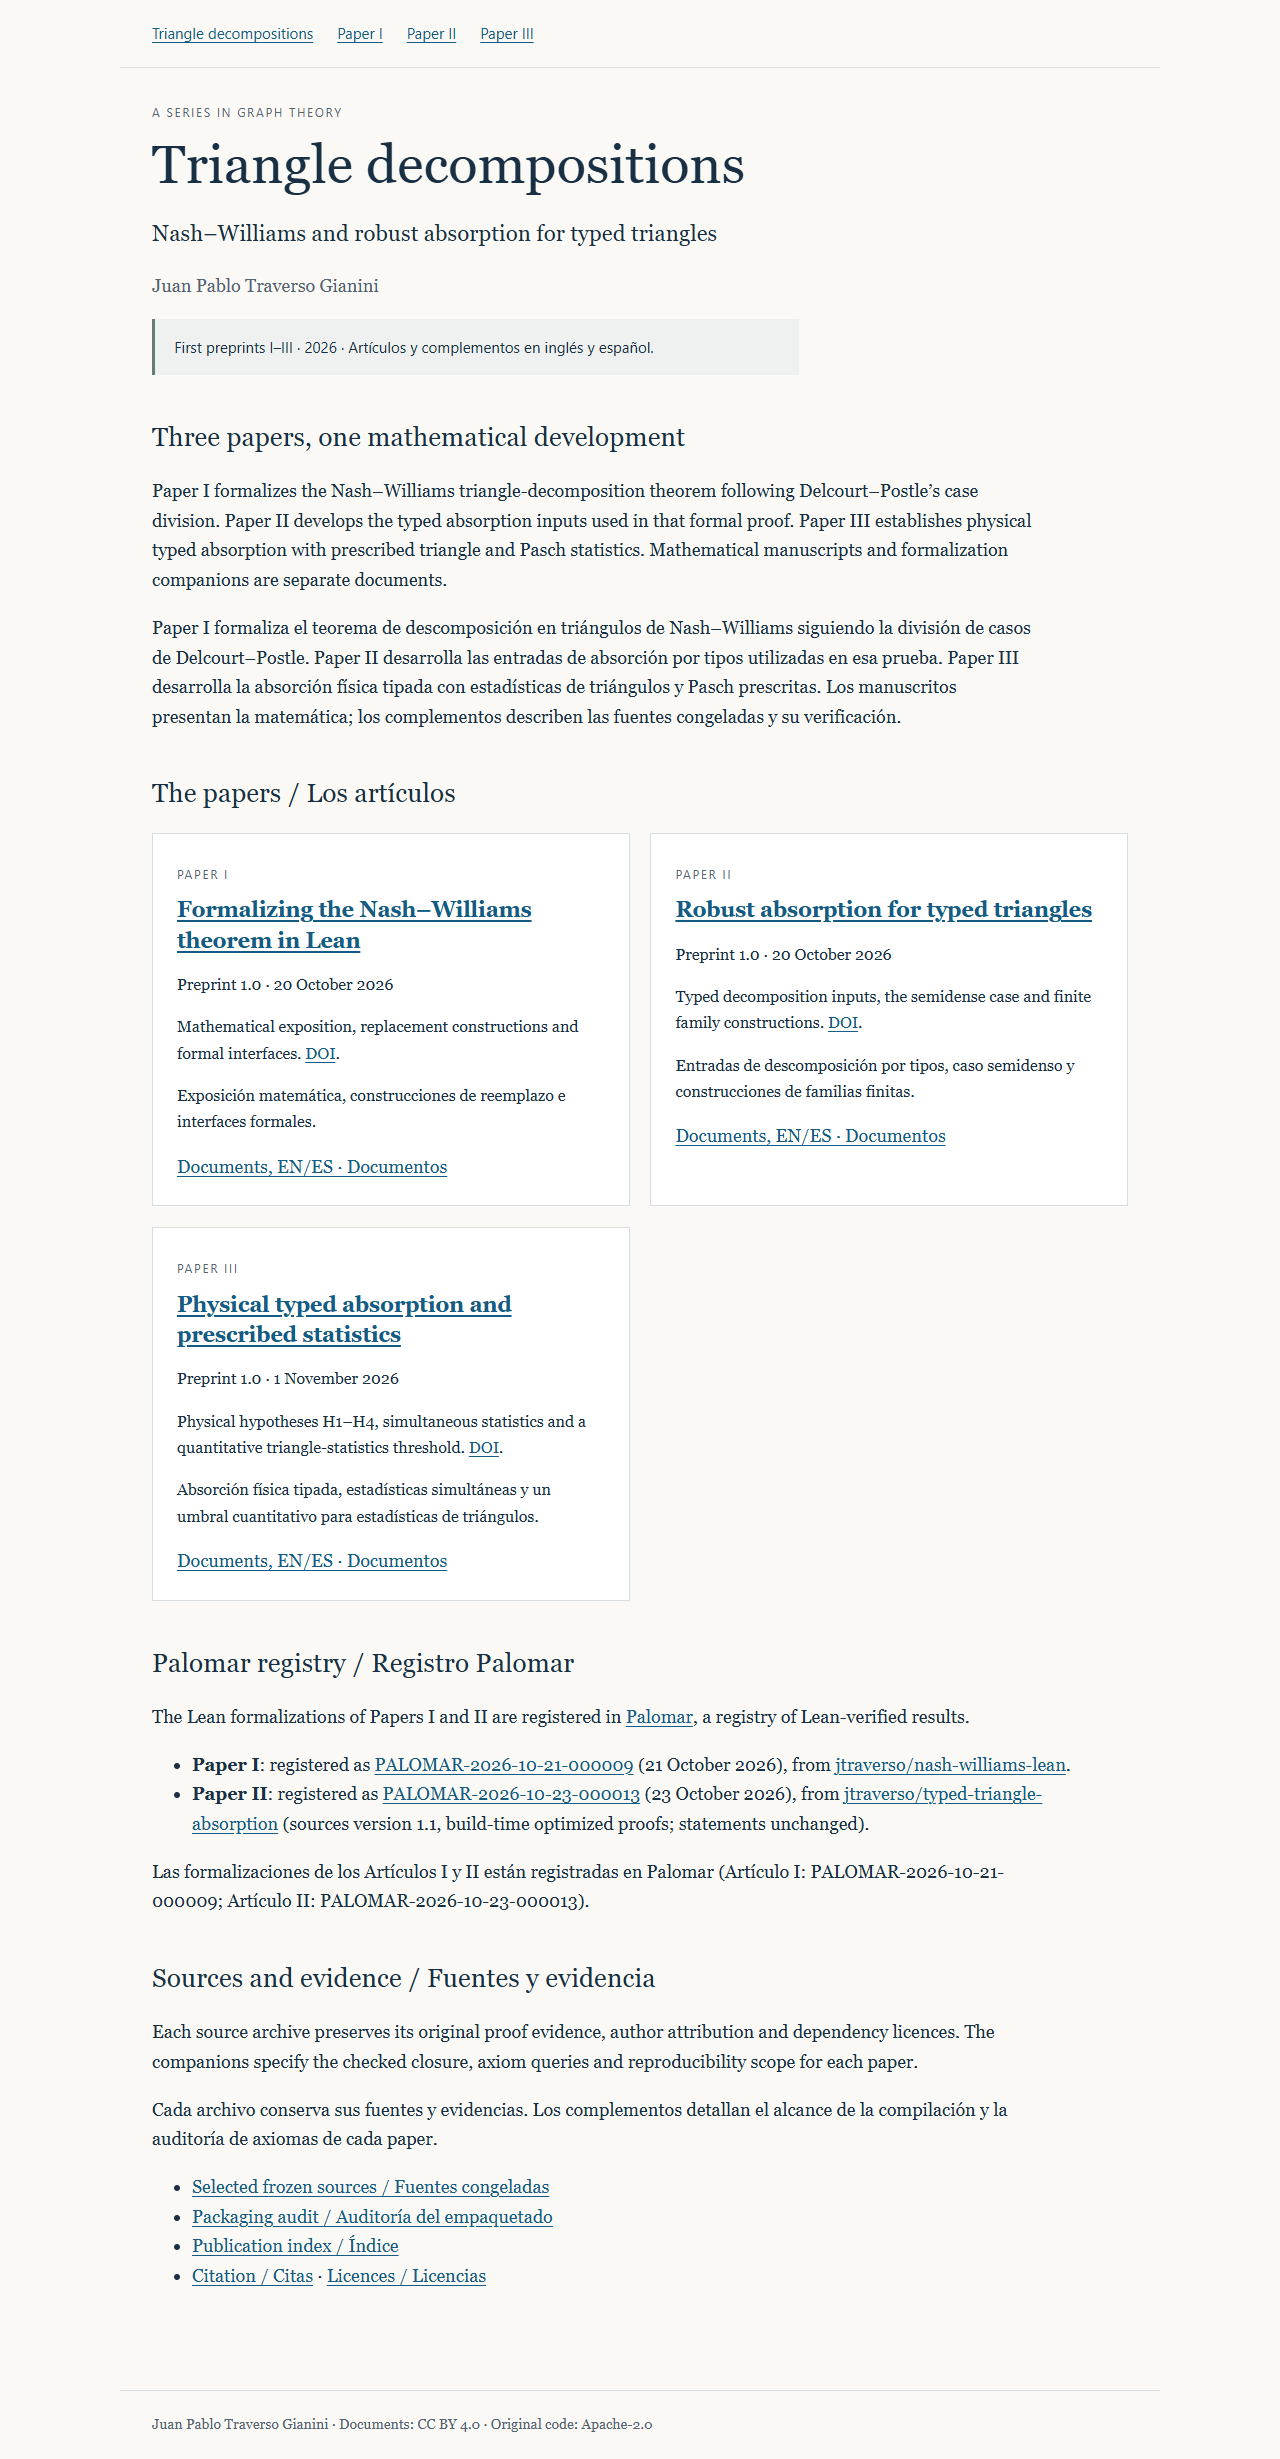
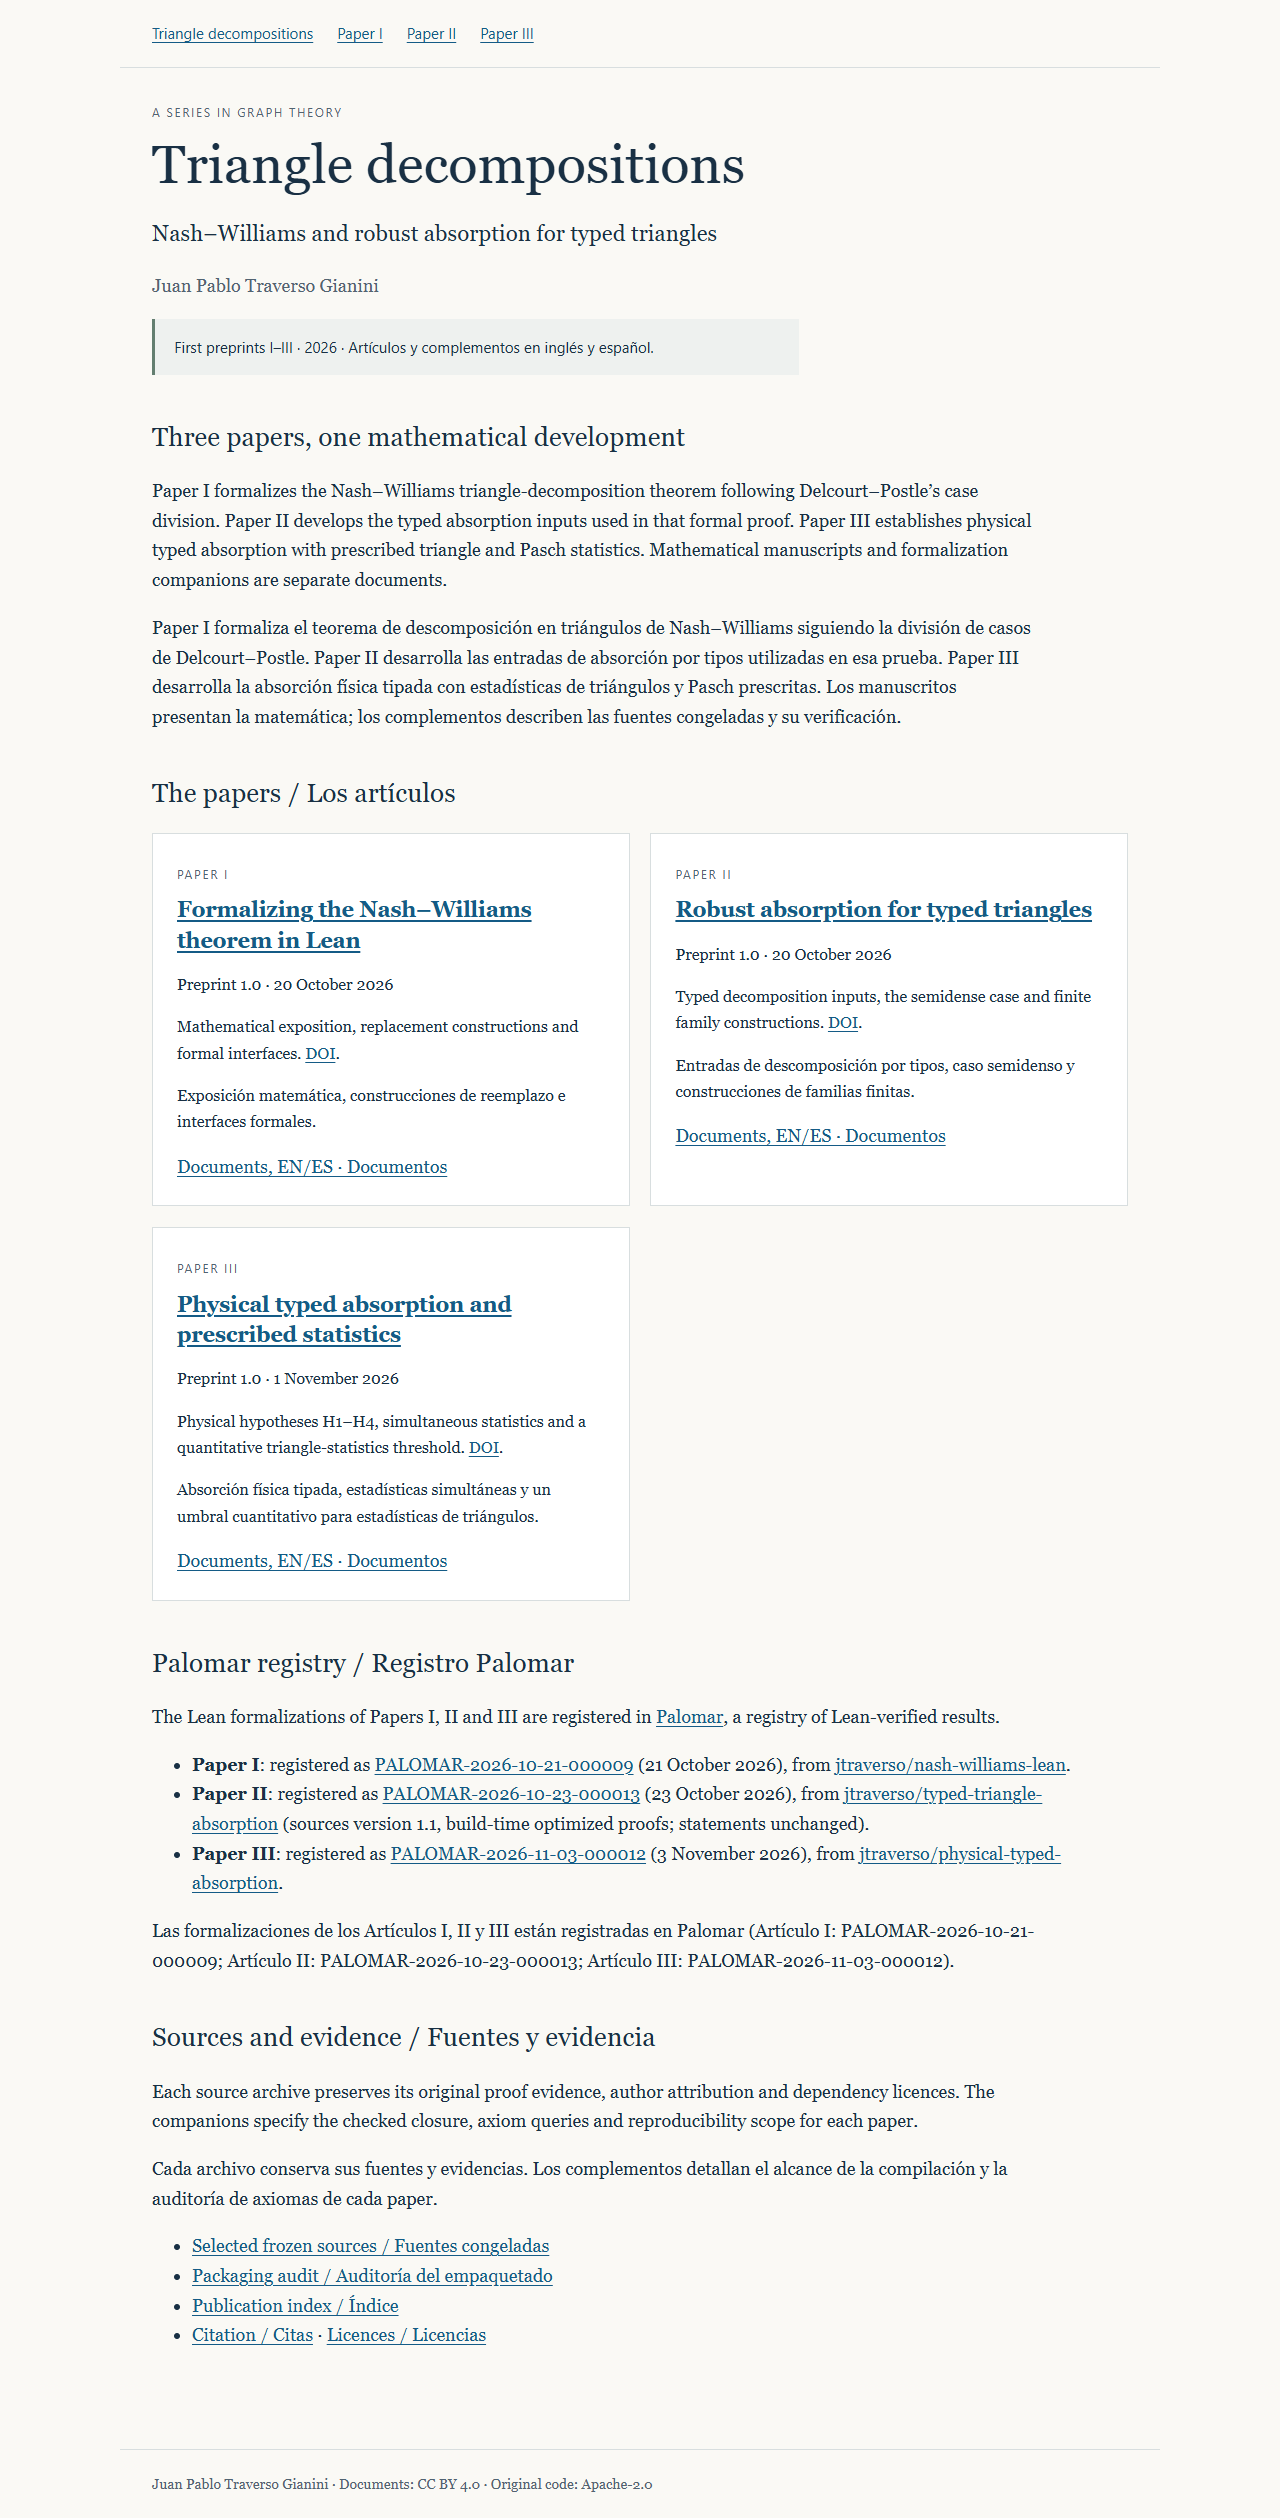
Record Paper III Palomar registration (PALOMAR-2026-11-03-000012)
Adds the entry to the README table and the series page, recaptures the series
page for the visual review and refreshes the integrity manifest.

diff --git a/index.html b/index.html
@@ -9,6 +9,6 @@
 <a href="preprints/PAPER_III/index.html">Paper III</a></nav></header>
 <main id="main"><p class="eyebrow">A SERIES IN GRAPH THEORY</p><h1>Triangle decompositions</h1><p class="subtitle">Nash–Williams and robust absorption for typed triangles</p><p class="byline">Juan Pablo Traverso Gianini</p><p class="notice">First preprints I–III · 2026 · Artículos y complementos en inglés y español.</p>
 <section><h2>Three papers, one mathematical development</h2><p>Paper I formalizes the Nash–Williams triangle-decomposition theorem following Delcourt–Postle’s case division. Paper II develops the typed absorption inputs used in that formal proof. Paper III establishes physical typed absorption with prescribed triangle and Pasch statistics. Mathematical manuscripts and formalization companions are separate documents.</p><p lang="es">Paper I formaliza el teorema de descomposición en triángulos de Nash–Williams siguiendo la división de casos de Delcourt–Postle. Paper II desarrolla las entradas de absorción por tipos utilizadas en esa prueba. Paper III desarrolla la absorción física tipada con estadísticas de triángulos y Pasch prescritas. Los manuscritos presentan la matemática; los complementos describen las fuentes congeladas y su verificación.</p></section>
-<section><h2>The papers / Los artículos</h2><div class="cards"><article><span class="eyebrow">PAPER I</span><h3><a href="preprints/PAPER_I/index.html">Formalizing the Nash–Williams theorem in Lean</a></h3><p>Preprint 1.0 · 20 October 2026</p><p>Mathematical exposition, replacement constructions and formal interfaces. <a href="https://doi.org/10.5281/zenodo.23428173">DOI</a>.</p><p lang="es">Exposición matemática, construcciones de reemplazo e interfaces formales.</p><a href="preprints/PAPER_I/README.md">Documents, EN/ES · Documentos</a></article><article><span class="eyebrow">PAPER II</span><h3><a href="preprints/PAPER_II/index.html">Robust absorption for typed triangles</a></h3><p>Preprint 1.0 · 20 October 2026</p><p>Typed decomposition inputs, the semidense case and finite family constructions. <a href="https://doi.org/10.5281/zenodo.23502224">DOI</a>.</p><p lang="es">Entradas de descomposición por tipos, caso semidenso y construcciones de familias finitas.</p><a href="preprints/PAPER_II/README.md">Documents, EN/ES · Documentos</a></article><article><span class="eyebrow">PAPER III</span><h3><a href="preprints/PAPER_III/index.html">Physical typed absorption and prescribed statistics</a></h3><p>Preprint 1.0 · 1 November 2026</p><p>Physical hypotheses H1–H4, simultaneous statistics and a quantitative triangle-statistics threshold. <a href="https://doi.org/10.5281/zenodo.23867836">DOI</a>.</p><p lang="es">Absorción física tipada, estadísticas simultáneas y un umbral cuantitativo para estadísticas de triángulos.</p><a href="preprints/PAPER_III/README.md">Documents, EN/ES · Documentos</a></article></div></section><section><h2>Palomar registry / Registro Palomar</h2><p>The Lean formalizations of Papers I and II are registered in <a href="https://palomar-registry.org">Palomar</a>, a registry of Lean-verified results.</p><ul><li><strong>Paper I</strong>: registered as <a href="https://palomar-registry.org/entry.html?id=PALOMAR-2026-10-21-000009&amp;version=1">PALOMAR-2026-10-21-000009</a> (21 October 2026), from <a href="https://github.com/jtraverso/nash-williams-lean/tree/2603197abdbf0a600ec663f6f046f70fbd209d4a">jtraverso/nash-williams-lean</a>.</li><li><strong>Paper II</strong>: registered as <a href="https://palomar-registry.org/entry.html?id=PALOMAR-2026-10-23-000013&amp;version=1">PALOMAR-2026-10-23-000013</a> (23 October 2026), from <a href="https://github.com/jtraverso/typed-triangle-absorption/tree/673c6d4118b5679783bafa7606fd2c611161a254">jtraverso/typed-triangle-absorption</a> (sources version 1.1, build-time optimized proofs; statements unchanged).</li></ul><p lang="es">Las formalizaciones de los Artículos I y II están registradas en Palomar (Artículo I: PALOMAR-2026-10-21-000009; Artículo II: PALOMAR-2026-10-23-000013).</p></section>
+<section><h2>The papers / Los artículos</h2><div class="cards"><article><span class="eyebrow">PAPER I</span><h3><a href="preprints/PAPER_I/index.html">Formalizing the Nash–Williams theorem in Lean</a></h3><p>Preprint 1.0 · 20 October 2026</p><p>Mathematical exposition, replacement constructions and formal interfaces. <a href="https://doi.org/10.5281/zenodo.23428173">DOI</a>.</p><p lang="es">Exposición matemática, construcciones de reemplazo e interfaces formales.</p><a href="preprints/PAPER_I/README.md">Documents, EN/ES · Documentos</a></article><article><span class="eyebrow">PAPER II</span><h3><a href="preprints/PAPER_II/index.html">Robust absorption for typed triangles</a></h3><p>Preprint 1.0 · 20 October 2026</p><p>Typed decomposition inputs, the semidense case and finite family constructions. <a href="https://doi.org/10.5281/zenodo.23502224">DOI</a>.</p><p lang="es">Entradas de descomposición por tipos, caso semidenso y construcciones de familias finitas.</p><a href="preprints/PAPER_II/README.md">Documents, EN/ES · Documentos</a></article><article><span class="eyebrow">PAPER III</span><h3><a href="preprints/PAPER_III/index.html">Physical typed absorption and prescribed statistics</a></h3><p>Preprint 1.0 · 1 November 2026</p><p>Physical hypotheses H1–H4, simultaneous statistics and a quantitative triangle-statistics threshold. <a href="https://doi.org/10.5281/zenodo.23867836">DOI</a>.</p><p lang="es">Absorción física tipada, estadísticas simultáneas y un umbral cuantitativo para estadísticas de triángulos.</p><a href="preprints/PAPER_III/README.md">Documents, EN/ES · Documentos</a></article></div></section><section><h2>Palomar registry / Registro Palomar</h2><p>The Lean formalizations of Papers I, II and III are registered in <a href="https://palomar-registry.org">Palomar</a>, a registry of Lean-verified results.</p><ul><li><strong>Paper I</strong>: registered as <a href="https://palomar-registry.org/entry.html?id=PALOMAR-2026-10-21-000009&amp;version=1">PALOMAR-2026-10-21-000009</a> (21 October 2026), from <a href="https://github.com/jtraverso/nash-williams-lean/tree/2603197abdbf0a600ec663f6f046f70fbd209d4a">jtraverso/nash-williams-lean</a>.</li><li><strong>Paper II</strong>: registered as <a href="https://palomar-registry.org/entry.html?id=PALOMAR-2026-10-23-000013&amp;version=1">PALOMAR-2026-10-23-000013</a> (23 October 2026), from <a href="https://github.com/jtraverso/typed-triangle-absorption/tree/673c6d4118b5679783bafa7606fd2c611161a254">jtraverso/typed-triangle-absorption</a> (sources version 1.1, build-time optimized proofs; statements unchanged).</li><li><strong>Paper III</strong>: registered as <a href="https://palomar-registry.org/entry.html?id=PALOMAR-2026-11-03-000012&amp;version=1">PALOMAR-2026-11-03-000012</a> (3 November 2026), from <a href="https://github.com/jtraverso/physical-typed-absorption/tree/9d36e80d75d81d9eabbfacd370dc4394b54e3d52">jtraverso/physical-typed-absorption</a>.</li></ul><p lang="es">Las formalizaciones de los Artículos I, II y III están registradas en Palomar (Artículo I: PALOMAR-2026-10-21-000009; Artículo II: PALOMAR-2026-10-23-000013; Artículo III: PALOMAR-2026-11-03-000012).</p></section>
 <section><h2>Sources and evidence / Fuentes y evidencia</h2><p>Each source archive preserves its original proof evidence, author attribution and dependency licences. The companions specify the checked closure, axiom queries and reproducibility scope for each paper.</p><p lang="es">Cada archivo conserva sus fuentes y evidencias. Los complementos detallan el alcance de la compilación y la auditoría de axiomas de cada paper.</p><ul><li><a href="archives/README.md">Selected frozen sources / Fuentes congeladas</a></li><li><a href="publication/AUDIT.md">Packaging audit / Auditoría del empaquetado</a></li><li><a href="PUBLICATION_INDEX.json">Publication index / Índice</a></li><li><a href="CITATION.md">Citation / Citas</a> · <a href="LICENSE.md">Licences / Licencias</a></li></ul></section></main>
 <footer>Juan Pablo Traverso Gianini · Documents: CC BY 4.0 · Original code: Apache-2.0</footer></body></html>

diff --git a/README.md b/README.md
@@ -14,16 +14,17 @@ Este repositorio presenta mi formalización en Lean de [*A Proof of Nash-William
 
 ## Palomar registry / Registro Palomar
 
-The Lean formalizations of Papers I and II are registered in [Palomar](https://palomar-registry.org), a registry of Lean-verified results that rebuilds the sources, checks the stated theorems against a Mathlib-only challenge file and replays the proofs in independent kernels.
+The Lean formalizations of Papers I, II and III are registered in [Palomar](https://palomar-registry.org), a registry of Lean-verified results that rebuilds the sources, checks the stated theorems against a Mathlib-only challenge file and replays the proofs in independent kernels.
 
 | Paper | Palomar | Lean source |
 |---|---|---|
 | I — Nash–Williams | **Registered** as [PALOMAR-2026-10-21-000009](https://palomar-registry.org/entry.html?id=PALOMAR-2026-10-21-000009&version=1) (version 1, 21 October 2026) · [archived copy](https://github.com/PalomarArchive/jtraverso--nash-williams-lean--252fc7828395/tree/palomar/PALOMAR-2026-10-21-000009-v1/2603197abdbf0a600ec663f6f046f70fbd209d4a) | [jtraverso/nash-williams-lean @ 2603197](https://github.com/jtraverso/nash-williams-lean/tree/2603197abdbf0a600ec663f6f046f70fbd209d4a) |
 | II — Typed absorption | **Registered** as [PALOMAR-2026-10-23-000013](https://palomar-registry.org/entry.html?id=PALOMAR-2026-10-23-000013&version=1) (version 1, 23 October 2026) · [archived copy](https://github.com/PalomarArchive/jtraverso--typed-triangle-absorption--055c1b37404f/tree/palomar/PALOMAR-2026-10-23-000013-v1/673c6d4118b5679783bafa7606fd2c611161a254) | [jtraverso/typed-triangle-absorption @ 673c6d4](https://github.com/jtraverso/typed-triangle-absorption/tree/673c6d4118b5679783bafa7606fd2c611161a254) (sources version 1.1) |
+| III — Physical typed absorption | **Registered** as [PALOMAR-2026-11-03-000012](https://palomar-registry.org/entry.html?id=PALOMAR-2026-11-03-000012&version=1) (version 1, 3 November 2026) · [archived copy](https://github.com/PalomarArchive/jtraverso--physical-typed-absorption--5ba06d9516d5/tree/palomar/PALOMAR-2026-11-03-000012-v1/9d36e80d75d81d9eabbfacd370dc4394b54e3d52) | [jtraverso/physical-typed-absorption @ 9d36e80](https://github.com/jtraverso/physical-typed-absorption/tree/9d36e80d75d81d9eabbfacd370dc4394b54e3d52) |
 
 Paper II version 1.1 rewrites proof scripts in 279 modules of the computer-assisted finite census to shorten the build. Statements, definitions and the challenge file are unchanged. An earlier submission of the 1.0 sources exceeded the verifier's time limit; version 1.1 passed verification and was registered on 23 October 2026.
 
-*En español:* las formalizaciones en Lean de ambos artículos están registradas en [Palomar](https://palomar-registry.org), un registro de resultados verificados en Lean. Palomar recompila las fuentes, compara los teoremas enunciados con un archivo de desafío que solo usa Mathlib y repite las pruebas en núcleos independientes. El Artículo I está **registrado** (PALOMAR-2026-10-21-000009). El Artículo II está **registrado** (PALOMAR-2026-10-23-000013, 23 de octubre de 2026). La versión 1.1 del Artículo II reescribe las pruebas de 279 módulos del censo finito asistido por computadora para acortar la compilación, sin cambiar enunciados, definiciones ni el archivo de desafío. Un envío anterior de las fuentes 1.0 superó el límite de tiempo del verificador; la versión 1.1 pasó la verificación y quedó registrada.
+*En español:* las formalizaciones en Lean de los tres artículos están registradas en [Palomar](https://palomar-registry.org), un registro de resultados verificados en Lean. Palomar recompila las fuentes, compara los teoremas enunciados con un archivo de desafío que solo usa Mathlib y repite las pruebas en núcleos independientes. El Artículo I está **registrado** (PALOMAR-2026-10-21-000009). El Artículo II está **registrado** (PALOMAR-2026-10-23-000013, 23 de octubre de 2026). La versión 1.1 del Artículo II reescribe las pruebas de 279 módulos del censo finito asistido por computadora para acortar la compilación, sin cambiar enunciados, definiciones ni el archivo de desafío. Un envío anterior de las fuentes 1.0 superó el límite de tiempo del verificador; la versión 1.1 pasó la verificación y quedó registrada. El Artículo III está **registrado** (PALOMAR-2026-11-03-000012, 3 de noviembre de 2026).
 
 ## PDF downloads / Descargar PDF
 

diff --git a/publication/VISUAL_REVIEW.md b/publication/VISUAL_REVIEW.md
@@ -1,8 +1,8 @@
 # Website visual review
 
-**PASS_VISUAL_PREPARATION — 20 October 2026; series page rechecked 25 October 2026.**
+**PASS_VISUAL_PREPARATION — 20 October 2026; series page rechecked 25 October and 3 November 2026.**
 
-The series guide and the two paper pages were inspected in six full-page captures at desktop (1280 × 900 viewport) and mobile (390 × 844 viewport) sizes. After the Palomar registry entry was added to the series page, that page alone was recaptured and visually inspected on 25 October. The paper pages and their HTML/CSS inputs were unchanged, so their original captures remain valid. Titles, bilingual document tables, DOI links and navigation are legible; the mobile layouts fit the viewport. Browser checks found no horizontal overflow or missing images.
+The series guide and the two paper pages were inspected in six full-page captures at desktop (1280 × 900 viewport) and mobile (390 × 844 viewport) sizes. After the Palomar registry entry was added to the series page, that page alone was recaptured and visually inspected on 25 October. The paper pages and their HTML/CSS inputs were unchanged, so their original captures remain valid. On 3 November the series page was recaptured and inspected again after the Palomar entry of Paper III was added; the paper pages were again unchanged. Titles, bilingual document tables, DOI links and navigation are legible; the mobile layouts fit the viewport. Browser checks found no horizontal overflow or missing images.
 
 The eight manuscript and companion PDFs are byte-identical to their separately audited editions (218 pages). Their render reviews and exact hashes are recorded under each paper's `02_validation` directory. Website review does not replace manuscript review.
 
